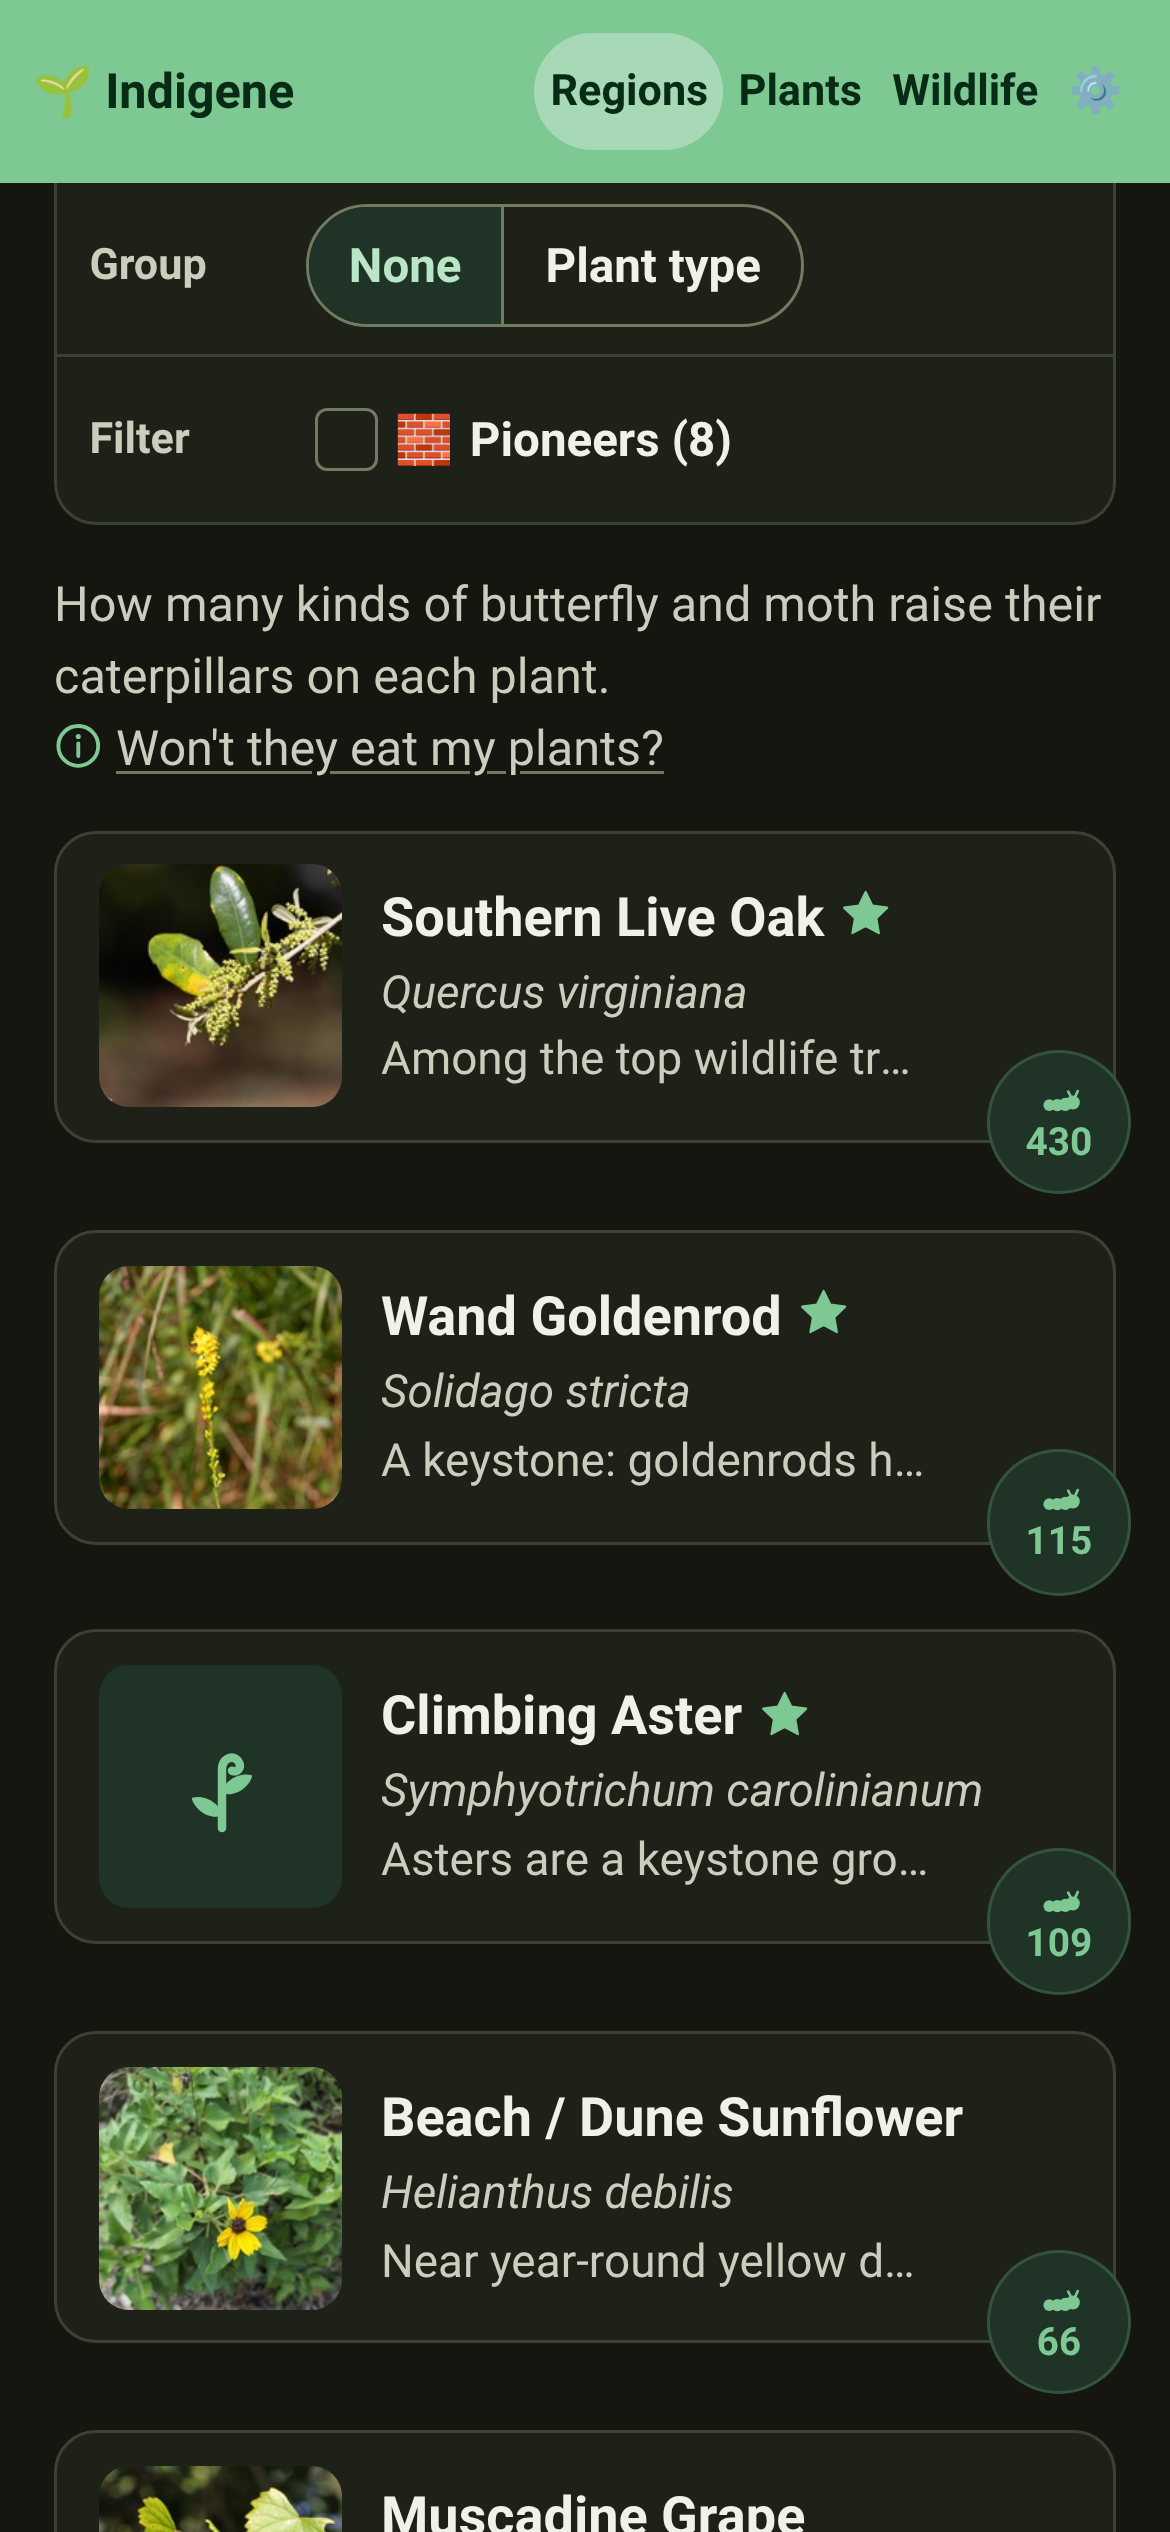
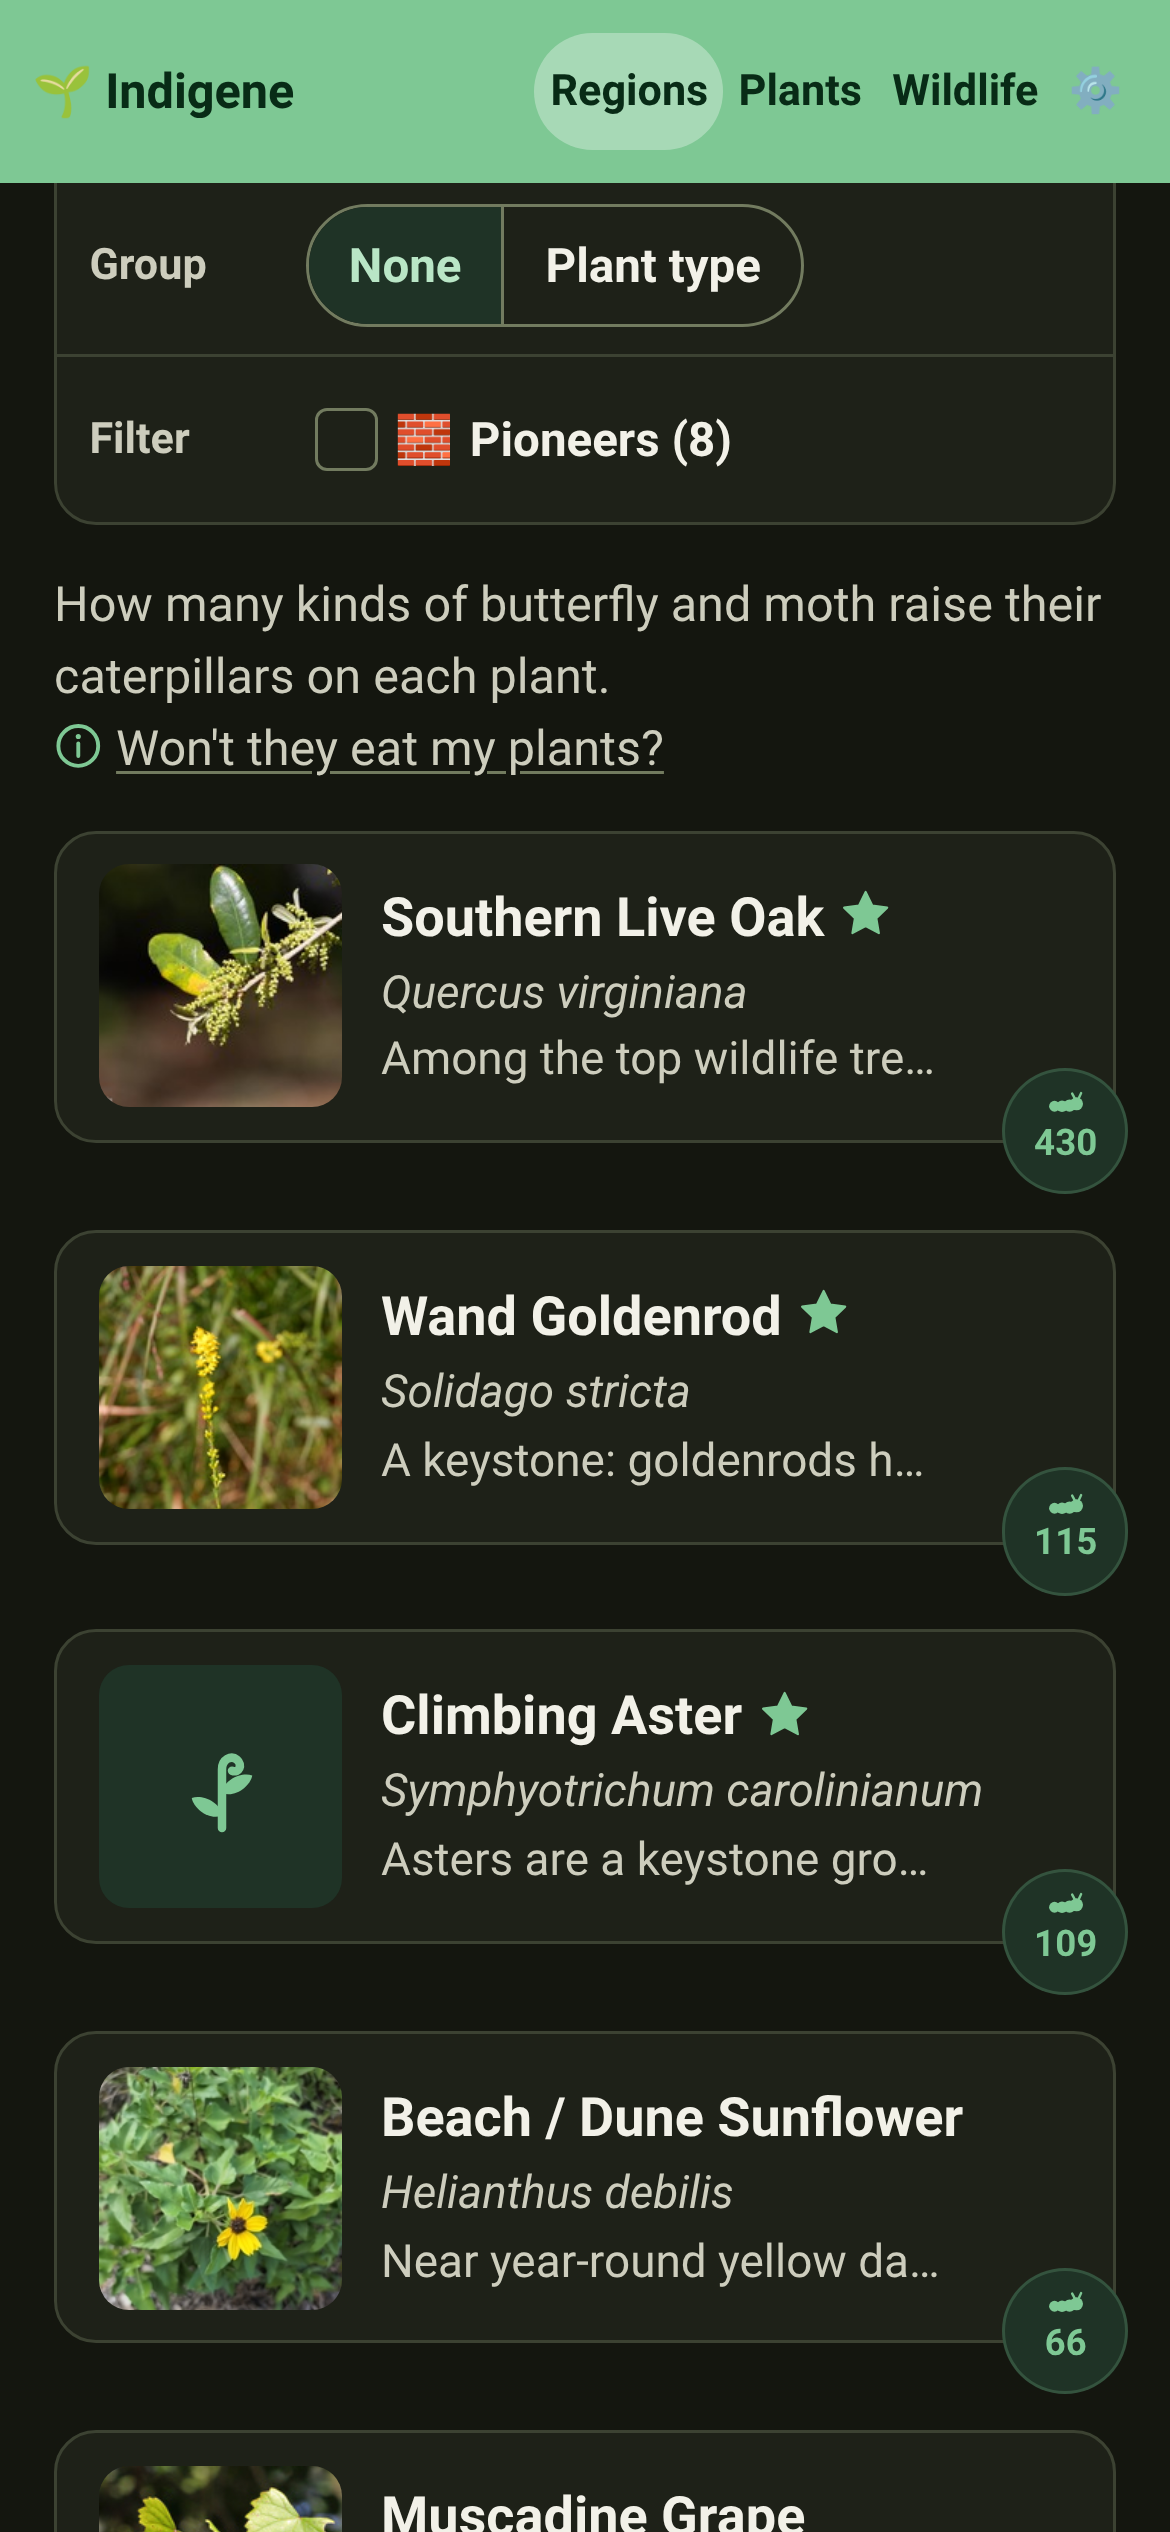
Smaller count tag, contents on its optical centre
Claude-Session: https://claude.ai/code/session_01Qxwni3GJEFjMcvFVrHNdTc

diff --git a/app/src/styles.css b/app/src/styles.css
@@ -1764,28 +1764,33 @@ details[open] > summary::after {
 /* The caterpillar count on a roster card, sorted by it: a small round tag
    pinned over the card's bottom-right edge, half on the card and half off. */
 /* Out of the flow entirely, so it can never push a name onto another line.
-   It rises 1.7rem into a card padded 0.6rem: it can only ever reach the last
+   It rises 1.35rem into a card padded 0.6rem: it can only ever reach the last
    line, the one-line description, which stops short of it (steps/region.ts). */
 .count-tag {
   position: absolute;
-  right: -0.35rem;
+  right: -0.3rem;
   bottom: -1rem;
   display: inline-flex;
   flex-direction: column;
   align-items: center;
   justify-content: center;
-  gap: 0.12rem;
-  min-width: 2.7rem;
-  height: 2.7rem;
-  padding: 0 0.3rem;
+  gap: 0.05rem;
+  min-width: 2.35rem;
+  height: 2.35rem;
+  /* The caterpillar sits low in its 24-unit box (empty sky above its back),
+     so the pair is nudged up to sit on the circle's optical centre. */
+  padding: 0 0.25rem 0.18rem;
   border-radius: 999px;
   border: 1px solid color-mix(in srgb, var(--brand) 22%, transparent);
   background: var(--brand-bg);
   color: var(--brand);
-  font-size: 0.72rem;
+  font-size: 0.68rem;
   font-weight: 700;
   line-height: 1;
   font-variant-numeric: tabular-nums;
+}
+.count-tag .tie-glyph {
+  margin-top: -0.2rem;
 }
 /* Room below each card for the tag that hangs off it. */
 .card-grid:has(.count-tag) {

diff --git a/app/src/steps/region.ts b/app/src/steps/region.ts
@@ -623,7 +623,7 @@ function plantRow(p: Plant, regionId: string, opts: RowOptions = {}): { node: HT
       // pinned over the card's corner — the only line the tag reaches. One
       // truncated line, so the room it leaves can't make anything wrap.
       el("div", {
-        style: `font-size:0.85rem;color:var(--ink-soft);white-space:nowrap;overflow:hidden;text-overflow:ellipsis${opts.caterpillars ? ";padding-right:2.6rem" : ""}`,
+        style: `font-size:0.85rem;color:var(--ink-soft);white-space:nowrap;overflow:hidden;text-overflow:ellipsis${opts.caterpillars ? ";padding-right:2.3rem" : ""}`,
       }, richText(prose(p, "givesNote", regionId))),
     ]),
     opts.pioneer ? pressureFooter({ plant: p, entry: opts.pioneer }, { interactive: false }) : null,
@@ -637,7 +637,7 @@ function plantRow(p: Plant, regionId: string, opts: RowOptions = {}): { node: HT
           role: "img",
           title: t("explore.caterpillarSpecies", { n: fmtNumber(p.hostLepCount) }),
           "aria-label": t("explore.caterpillarSpecies", { n: fmtNumber(p.hostLepCount) }),
-        }, [supportIcon("host", 15), fmtNumber(p.hostLepCount)])
+        }, [supportIcon("host", 14), fmtNumber(p.hostLepCount)])
       : null,
   ]);
   const mark = (nq: string): void => {
